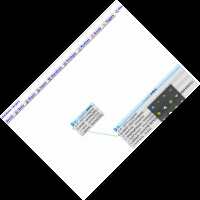
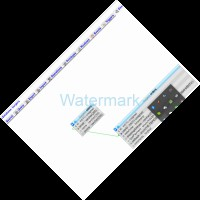
'dz5'

Changed region(s): [[0.3, 0.45, 0.69, 0.54]]

diff --git a/public/styles.css b/public/styles.css
@@ -13,7 +13,7 @@
     padding-bottom: 10px;
 }
 .img {
-    max-width: 1000px;
+    max-width: 600px;
 }
 h2 {
     color: coral;

diff --git a/app/Core/MainController.php b/app/Core/MainController.php
@@ -21,7 +21,7 @@ class MainController
         $this->view->render('index', []);
     }
 
-    public function imageHandler($imageBefore, $imageAfter)
+    static function imageHandler($imageBefore, $imageAfter)
     {
         putenv('GDFONTPATH=' . realpath(PUBLIC_PATH));
         $image = IImage::make($imageBefore);
@@ -31,15 +31,16 @@ class MainController
                 $image->width() / 2,
                 $image->height() / 2,
                 function ($font) {
-                    $font->file('arial.ttf')
-                        ->size('80');
+                    $font->file(PUBLIC_PATH . DIRECTORY_SEPARATOR . 'arial.ttf')
+                        ->size('120');
                     $font->color(array(132, 198, 229, 0.5));
                     $font->align('center');
                     $font->valign('center');
                 })
-            ->resize(200, null, function ($img) {
-                $img->aspectRatio();
+            ->resize(200, null, function ($constraint) {
+                $constraint->aspectRatio();
+                $constraint->upsize();
             })
-            ->save($imageAfter, 100);
+            ->save($imageAfter, 90);
     }
 }

diff --git a/app/views/index.php b/app/views/index.php
@@ -13,7 +13,7 @@
         <h2>Исходная картинка:</h2>
         <img class="img" src="./public/db.jpg" alt="db" title="db">
         <h2>Преобразованная картинка:</h2>
-        <img src="./public/dbResult.jpg" alt="db" title="db">
+        <img class="img" src="./public/dbResult.jpg" alt="db" title="db">
     </div>
 </div>
 </body>
